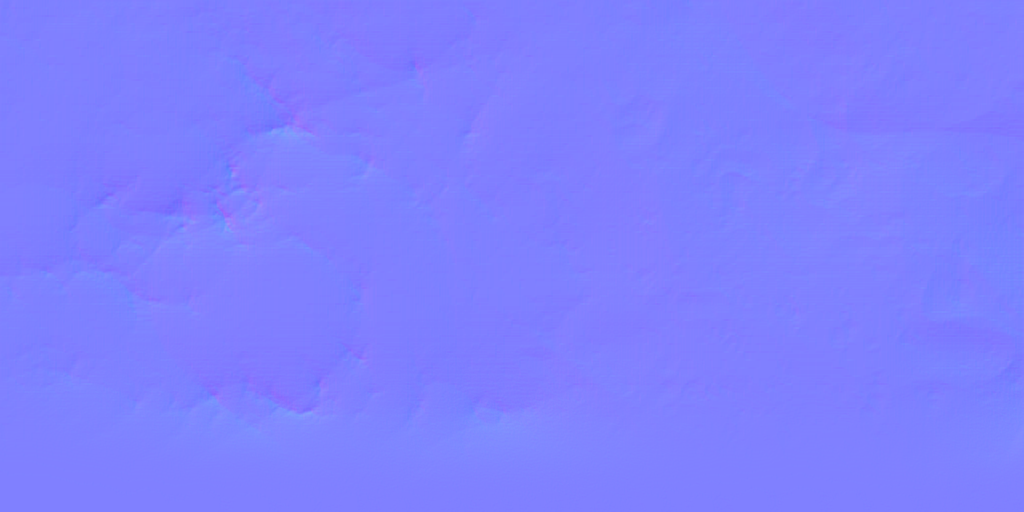
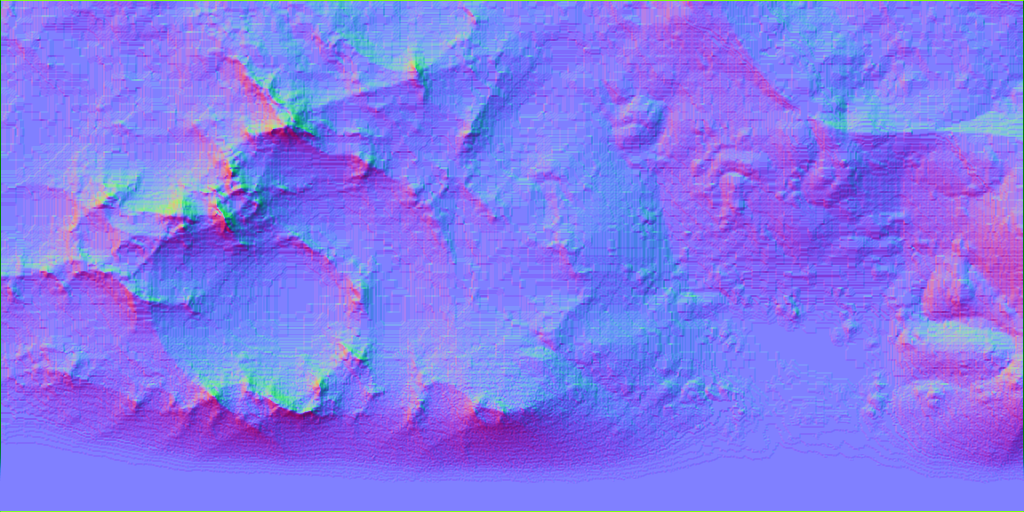
update surreal scene

diff --git a/samples/scratchpad/src/surreal/SurrealState.cpp b/samples/scratchpad/src/surreal/SurrealState.cpp
@@ -342,17 +342,32 @@ void SurrealState::createScene()
     {
         entity = m_gameScene.createEntity();
         entity.addComponent<cro::Transform>().setPosition({ 0.f, -2.f, -30.f });
-        entity.getComponent<cro::Transform>().setScale(glm::vec3(40.f, 1.f, 20.f)); //height scale MUST be 1 as we calc this in the shader
+        entity.getComponent<cro::Transform>().setScale(glm::vec3(40.f, 20.f, 1.f)); //height scale MUST be 1 as we calc this in the shader
+        entity.getComponent<cro::Transform>().rotate(cro::Transform::X_AXIS, -(cro::Util::Const::PI / 2.f));
         md.createModel(entity);
 
         m_resources.shaders.loadFromString(ShaderID::Terrain, TerrainVertex, TerrainFrag);
-        auto& heightmap = m_resources.textures.get("assets/water/heightmap/heightmap_a.png");
-        auto& normalmap = m_resources.textures.get("assets/water/heightmap/normal_a.png");
-        const auto m = m_resources.materials.add(m_resources.shaders.get(ShaderID::Terrain));
+        const auto& heightmapA = m_resources.textures.get("assets/water/heightmap/heightmap_a.png");
+        const auto& normalmapA = m_resources.textures.get("assets/water/heightmap/normal_a.png");
+        const auto& heightmapB = m_resources.textures.get("assets/water/heightmap/heightmap_b.png");
+        const auto& normalmapB = m_resources.textures.get("assets/water/heightmap/normal_b.png");
+
+        auto& diffuseMap = m_resources.textures.get("assets/water/cliffs.png");
+        diffuseMap.setSmooth(true);
+        diffuseMap.setRepeated(true);
+
+        const auto& shader = m_resources.shaders.get(ShaderID::Terrain);
+        const auto m = m_resources.materials.add(shader);
         auto& mat = m_resources.materials.get(m);
-        mat.setProperty("u_heightMap", heightmap);
-        mat.setProperty("u_normalMap", normalmap);
+        mat.setProperty("u_heightMapA", heightmapA);
+        mat.setProperty("u_normalMapA", normalmapA);
+        mat.setProperty("u_heightMapB", heightmapB);
+        mat.setProperty("u_normalMapB", normalmapB);
+        mat.setProperty("u_diffuseMap", diffuseMap);
         entity.getComponent<cro::Model>().setMaterial(0, mat);
+
+        m_terrainShader.ID = shader.getGLHandle();
+        m_terrainShader.blend = shader.getUniformID("u_blend");
     }
 
 
@@ -396,6 +411,13 @@ void SurrealState::createScene()
         {
             if (ImGui::Begin("Cam"))
             {
+                static float blend = 0.f;
+                if (ImGui::SliderFloat("Blend", &blend, 0.f, 1.f))
+                {
+                    glUseProgram(m_terrainShader.ID);
+                    glUniform1f(m_terrainShader.blend, blend);
+                }
+
                 /*static float density = 0.5f;
                 static float fogStart = 0.01f;
                 static float fogEnd = 5.5f;

diff --git a/samples/scratchpad/src/surreal/SurrealState.hpp b/samples/scratchpad/src/surreal/SurrealState.hpp
@@ -41,6 +41,12 @@ private:
         std::int32_t fogDensity = -1;
     }m_waveShader;
 
+    struct TerrainShader final
+    {
+        std::uint32_t ID = 0;
+        std::int32_t blend = -1;
+    }m_terrainShader;
+
     void addSystems();
     void loadAssets();
     void createScene();
